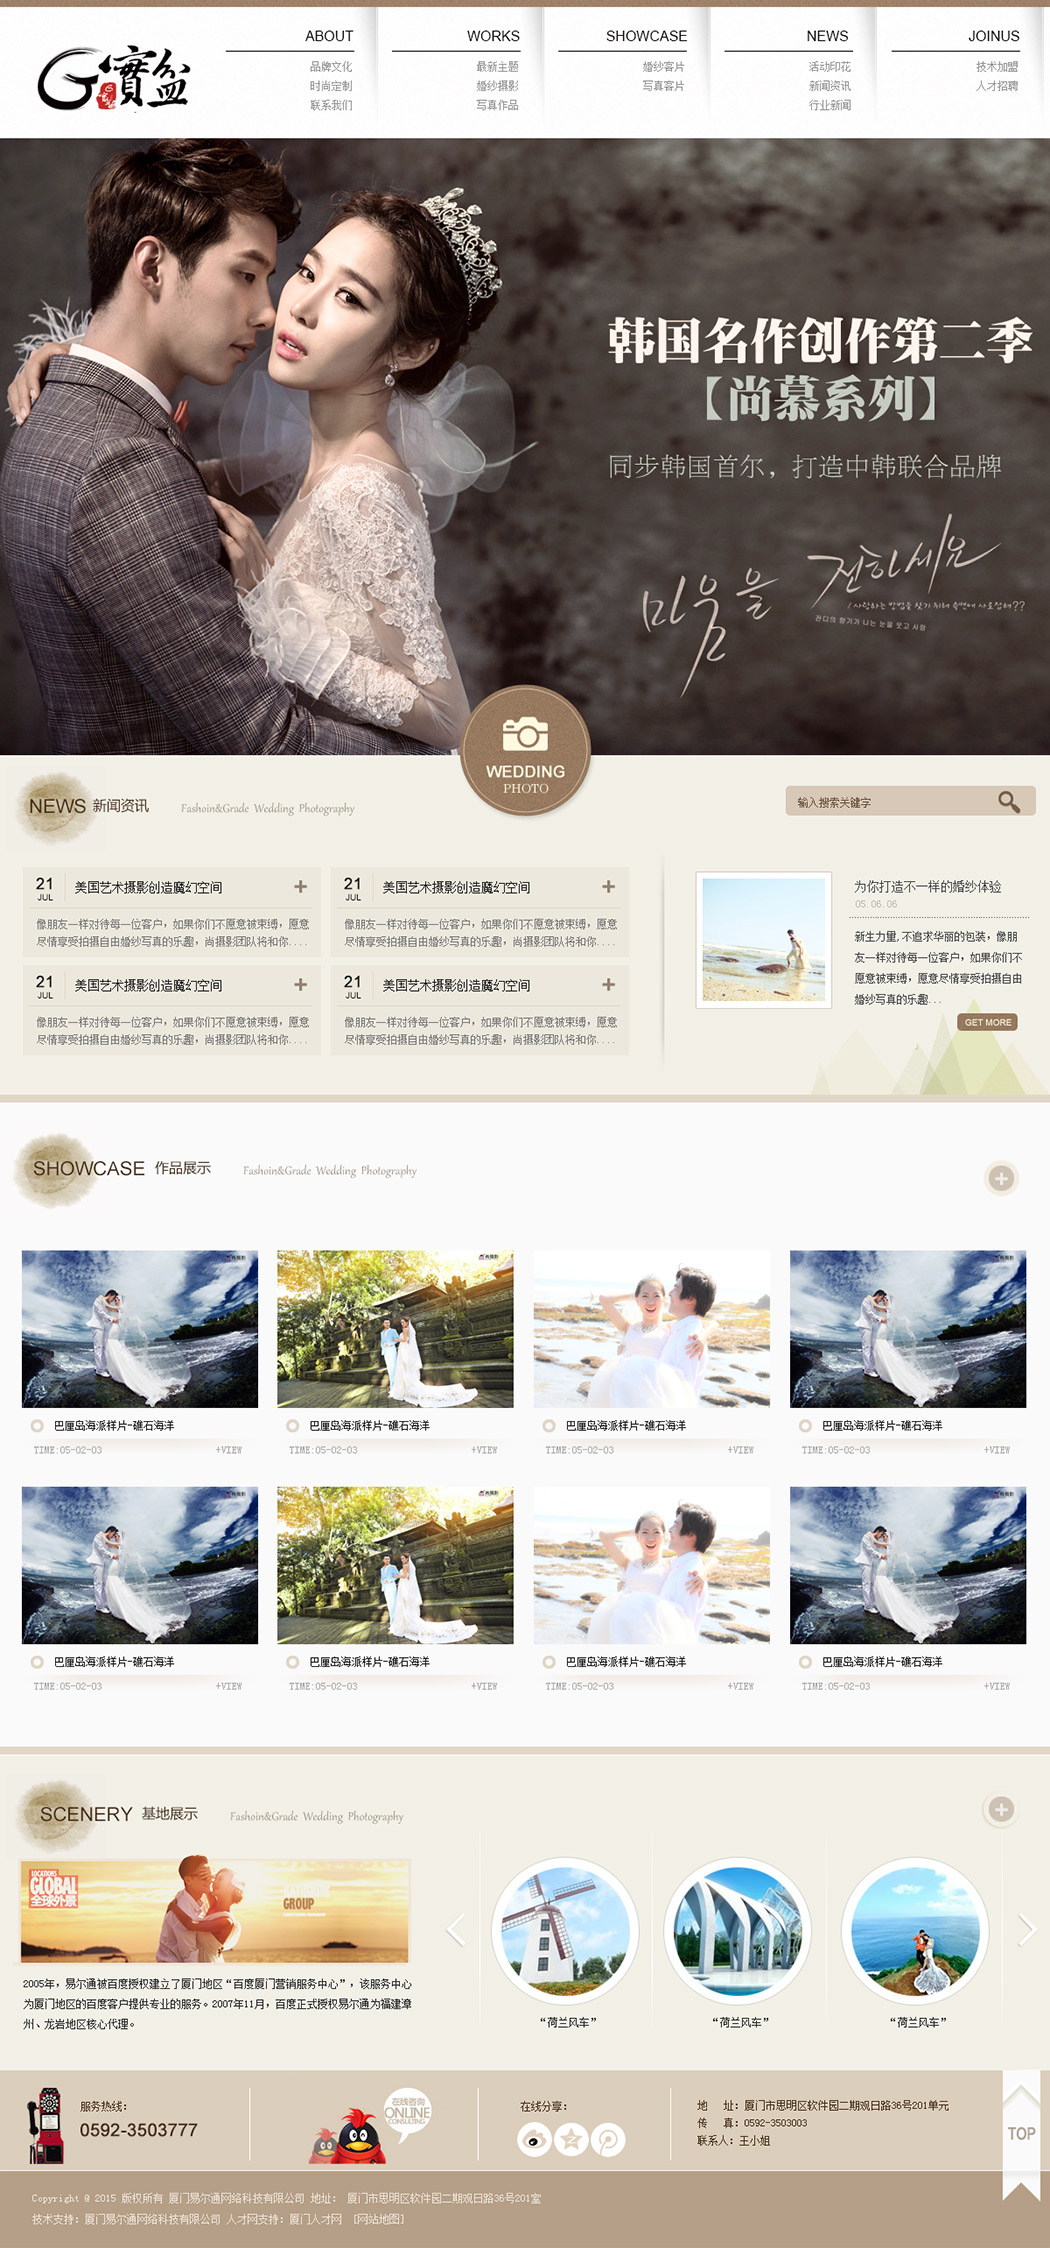
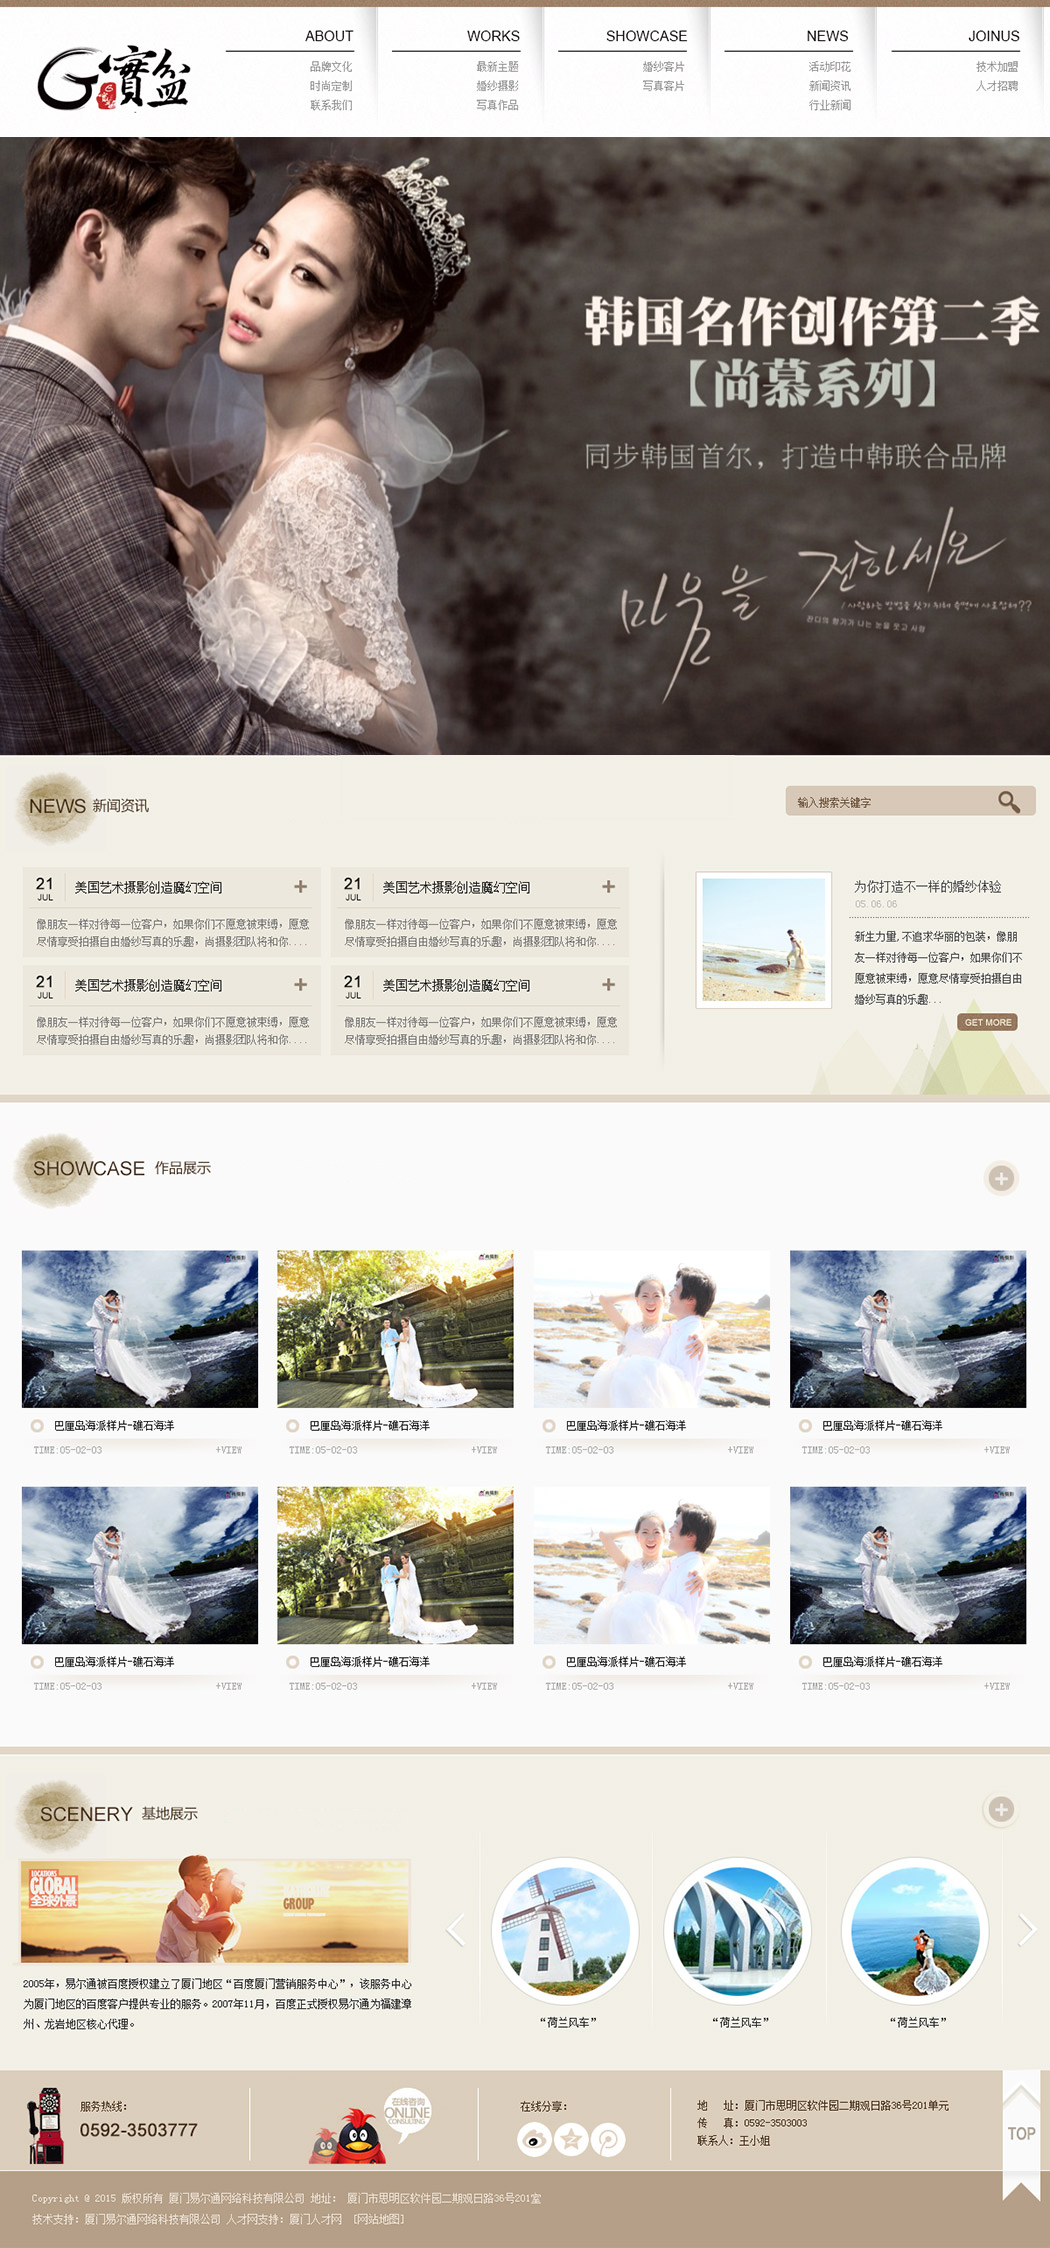
auto

Changed region(s): [[0.0, 0.0623, 1.0, 0.3737], [0.579, 0.2491, 0.7314, 0.3114], [0.0, 0.3114, 0.0305, 0.3425]]

diff --git a/app/views/templates/GP0009/index.html b/app/views/templates/GP0009/index.html
@@ -30,7 +30,7 @@
         	<div class="public content">
             	<div class="news fl">
                   <div class="index_title">
-                  	<div class="in_ernta"><b>{$index.nlista.en_name}</b><strong>{$index.nlista.name}</strong><span><img src="{$site_url}images/sheyingword.png" /></span></div><div class="titlimg"><img src="{$site_url}images/new_titlbg.jpg" /></div>
+                  	<div class="in_ernta"><b>{$index.nlista.en_name}</b><strong>{$index.nlista.name}</strong></div><div class="titlimg"><img src="{$site_url}images/new_titlbg.jpg" /></div>
                   </div>
                   <div class="newslist_a">
                   	<ul>
@@ -78,7 +78,7 @@
         	<div class="public content">
             	<div class="zuopin">              
                   <div class="index_title">
-                  	<div class="in_ernta"><b>{$index.prolist.en_name}</b><strong>{$index.prolist.name}</strong><span><img src="{$site_url}images/sheyingword.png" /> </span><div class="morejiab"><a href="{$index.prolist.link}"><img src="{$site_url}images/more2.png" height="41" width="41" /></a></div></div>
+                  	<div class="in_ernta"><b>{$index.prolist.en_name}</b><strong>{$index.prolist.name}</strong><div class="morejiab"><a href="{$index.prolist.link}"><img src="{$site_url}images/more2.png" height="41" width="41" /></a></div></div>
                     <div class="titlimg"><img src="{$site_url}images/new_titlbg2.jpg" /></div>
                   </div> 
                   
@@ -109,7 +109,7 @@
         	<div class="public content">
             	<div class="abnouter">
                   <div class="index_title" style="margin-bottom:0px;">
-                  		<div class="in_ernta"><b>{$index.caseliast.en_name}</b><strong>{$index.caseliast.name}</strong><span><img src="{$site_url}images/sheyingword.png" /></span><div class="morejiab"><a href="{$index.caseliast.link}"><img src="{$site_url}images/more3.png"  height="46" width="46"/></a></div></div>
+                  		<div class="in_ernta"><b>{$index.caseliast.en_name}</b><strong>{$index.caseliast.name}</strong><div class="morejiab"><a href="{$index.caseliast.link}"><img src="{$site_url}images/more3.png"  height="46" width="46"/></a></div></div>
                          <div class="titlimg"><img src="{$site_url}images/new_titlbg.jpg" /></div>
                   </div>                  
                   <div class="leftabout">

diff --git a/app/views/templates/GP0009/_header.html b/app/views/templates/GP0009/_header.html
@@ -42,4 +42,3 @@
           </div>
         </div>
 </div>
-<div class="phontes" ><a href="{$site_url}" class="tdong">wedding<b>photo</b></a></div>
